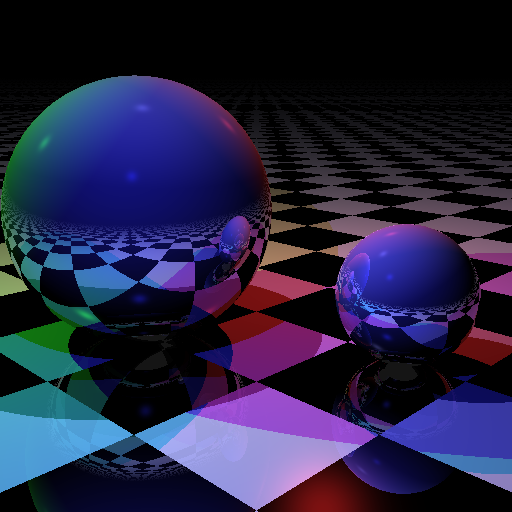
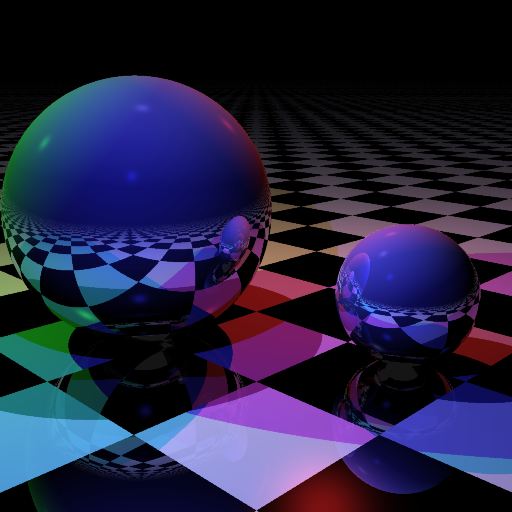
Added anti aliasing.

Changed region(s): [[0.7188, 0.5938, 0.8125, 0.625], [0.5, 0.5, 0.5312, 0.5312]]

diff --git a/raytracer.hpp b/raytracer.hpp
@@ -139,6 +139,9 @@ struct color {
     static constexpr color black() { return {}; };
     static constexpr color background() { return black(); }
     static constexpr color default_color() { return black(); }
+
+	constexpr color operator + (const color & c) { return color{ r + c.r, g + c.g, b + c.b }; }
+	constexpr color operator * (const real_t val) { return color{ r * val, g * val, b * val }; }
 };
 
 constexpr color scale(real_t k, const color& v)
@@ -418,25 +421,45 @@ private:
         return col;
     }
 
-    constexpr vec3 get_point(int width, int height, int x, int y, const camera& cam) const
-    {
-        const auto recenterX =  (x - (width / 2.0)) / 2.0 / width;
-        const auto recenterY = -(y - (height / 2.0)) / 2.0 / height;
-        return norm(cam.forward + ((recenterX * cam.right) + (recenterY * cam.up)));
-    }
+	constexpr vec3 get_point(int width, int height, real_t x, real_t y, const camera& cam) const
+	{
+		const auto recenterX = (x - (width * 0.5)) * 0.5 / width;
+		const auto recenterY = -(y - (height * 0.5)) * 0.5 / height;
+		return norm(cam.forward + ((recenterX * cam.right) + (recenterY * cam.up)));
+	}
 
 public:
-    template <typename Scene, typename Canvas>
-    constexpr void render(const Scene& scene, Canvas& canvas, int width, int height) const
-    {
-        for (int y = 0; y < height; y++) {
-            for (int x = 0; x < width; x++) {
-                const auto point = get_point(width, height, x, y, scene.get_camera());
-                const auto color = trace_ray({ scene.get_camera().pos, point }, scene, 0);
-                canvas.set_pixel(x, y, color);
-            }
-        }
-    }
+	template <typename Scene, typename Canvas>
+	constexpr void render(const Scene& scene, Canvas& canvas, int width, int height, bool anti_aliased = true) const
+	{
+		if (anti_aliased)
+		{
+			const real_t sin_phi_div_2(static_cast<real_t>(sin(3.14159265358979323846 * 0.25) * 0.5));
+			for (int y(0), x; y < height; y++) {
+				for (x = 0; x < width; x++) {
+					canvas.set_pixel(x, y, (
+						trace_ray({ scene.get_camera().pos, get_point(width, height, static_cast<real_t>(x), static_cast<real_t>(y), scene.get_camera()) }, scene, 0) + ((
+							trace_ray({ scene.get_camera().pos, get_point(width, height, static_cast<real_t>(x - 0.5), static_cast<real_t>(y), scene.get_camera()) }, scene, 0) +
+							trace_ray({ scene.get_camera().pos, get_point(width, height, static_cast<real_t>(x + 0.5), static_cast<real_t>(y), scene.get_camera()) }, scene, 0) +
+							trace_ray({ scene.get_camera().pos, get_point(width, height, static_cast<real_t>(x), static_cast<real_t>(y - 0.5), scene.get_camera()) }, scene, 0) +
+							trace_ray({ scene.get_camera().pos, get_point(width, height, static_cast<real_t>(x), static_cast<real_t>(y + 0.5), scene.get_camera()) }, scene, 0) +
+							trace_ray({ scene.get_camera().pos, get_point(width, height, static_cast<real_t>(x - sin_phi_div_2), static_cast<real_t>(y - sin_phi_div_2), scene.get_camera()) }, scene, 0) +
+							trace_ray({ scene.get_camera().pos, get_point(width, height, static_cast<real_t>(x + sin_phi_div_2), static_cast<real_t>(y - sin_phi_div_2), scene.get_camera()) }, scene, 0) +
+							trace_ray({ scene.get_camera().pos, get_point(width, height, static_cast<real_t>(x - sin_phi_div_2), static_cast<real_t>(y + sin_phi_div_2), scene.get_camera()) }, scene, 0) +
+							trace_ray({ scene.get_camera().pos, get_point(width, height, static_cast<real_t>(x + sin_phi_div_2), static_cast<real_t>(y + sin_phi_div_2), scene.get_camera()) }, scene, 0)) * 0.125)) * 0.5);
+				}
+			}
+		}
+		else
+		{
+			for (int y(0), x; y < height; y++) {
+				for (x = 0; x < width; x++) {
+					canvas.set_pixel(x, y,
+						trace_ray({ scene.get_camera().pos, get_point(width, height, x, y, scene.get_camera()) }, scene, 0));
+				}
+			}
+		}
+	}
 };
 
 } // end namespace
